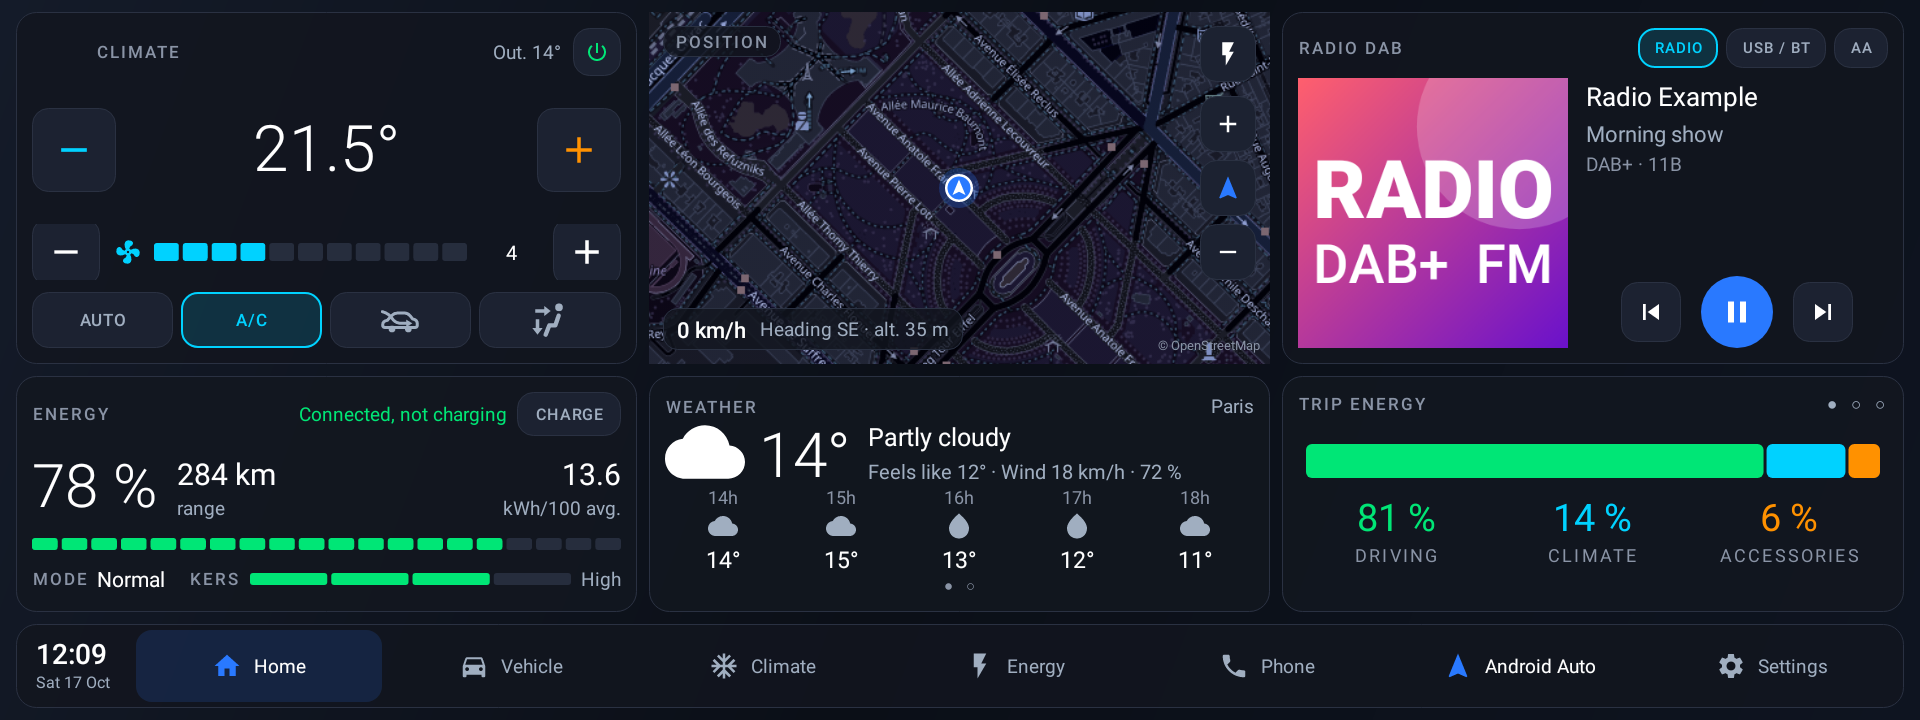
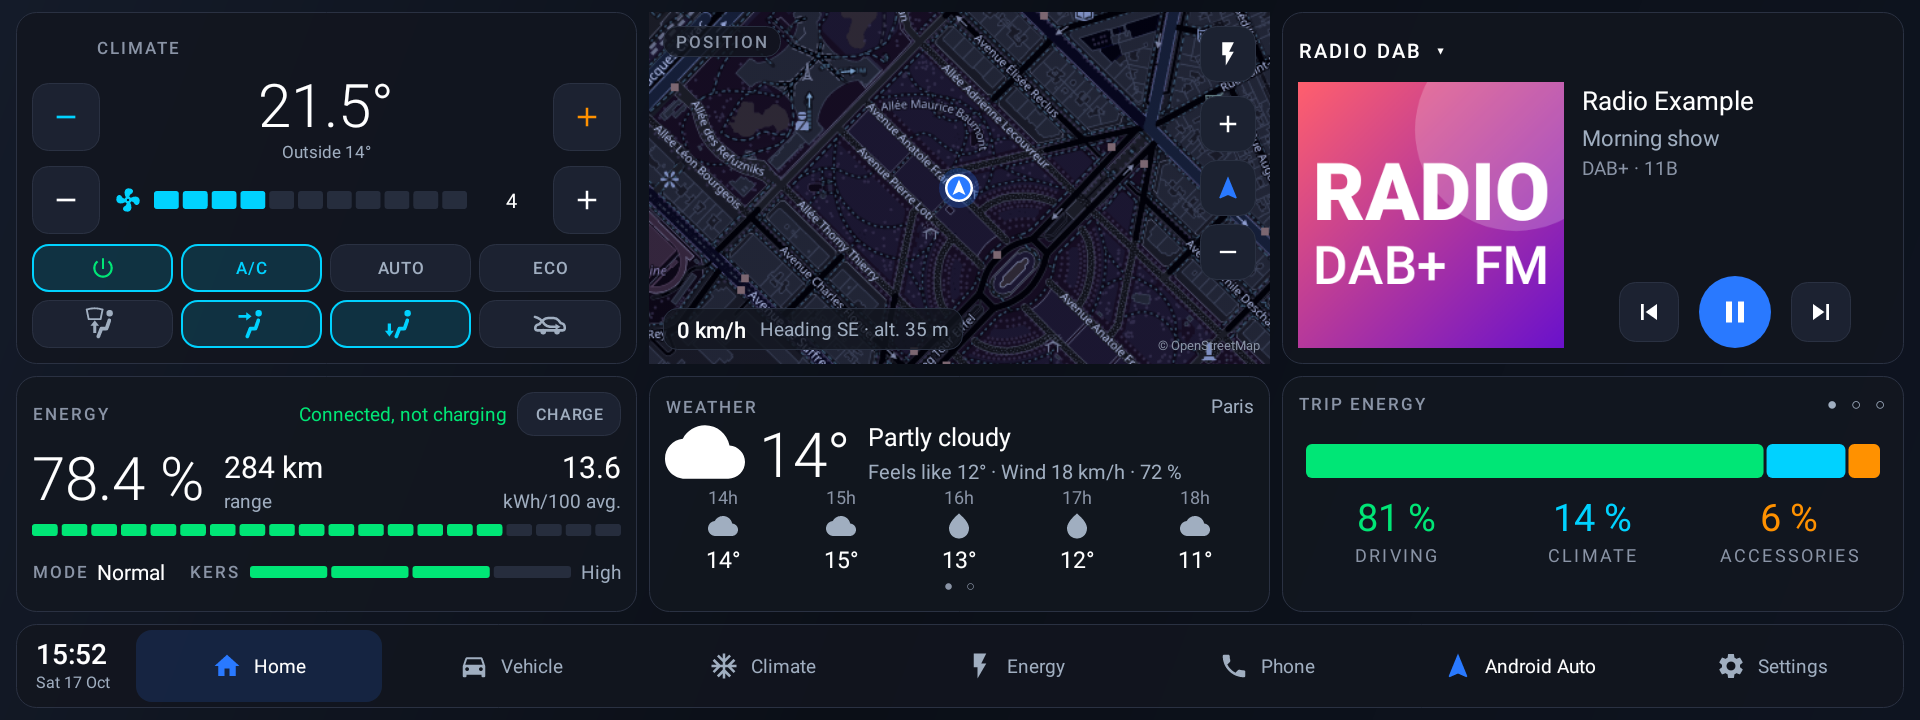
1.0.4-beta: bigger set temperature and outside temperature on the climate cards

diff --git a/app/src/main/java/app/mg4dash/ui/SimpleHome.kt b/app/src/main/java/app/mg4dash/ui/SimpleHome.kt
@@ -114,15 +114,15 @@ class SimpleHome(private val a: AppCompatActivity) {
         // Titre seul ; coin haut-gauche libre pour le bouton des antibrouillards (sauf barre verticale)
         val head = kit.row()
         head.addView(title(a.getString(R.string.title_climate)), kit.lp(0, -2, 1f, l = if (Dock.vertical(a)) 0 else Kit.FOG_SAFE_DP - 20))
-        climateCard.addView(head, kit.lp(-1, kit.dp(44)))
+        climateCard.addView(head, kit.lp(-1, kit.dp(34)))
         if (hideTitles) head.visibility = if (Dock.vertical(a)) View.GONE else View.INVISIBLE
 
         // Température, avec la température extérieure en petit dessous
         val tRow = kit.row().apply { gravity = Gravity.CENTER }
         tRow.addView(holdButton(R.drawable.ic_minus, 84, R.color.accent_cold) { CarBridge.stepTemp(-1) })
         val tBox = kit.column().apply { gravity = Gravity.CENTER }
-        temp = big("—", 84f, light = true).apply { gravity = Gravity.CENTER; includeFontPadding = false }
-        outside = kit.text("", 18f, R.color.text_sub).apply { gravity = Gravity.CENTER }
+        temp = big("—", 90f, light = true).apply { gravity = Gravity.CENTER; includeFontPadding = false }
+        outside = kit.text("", 22f, R.color.text_sub).apply { gravity = Gravity.CENTER; includeFontPadding = false }
         tBox.addView(temp); tBox.addView(outside)
         tRow.addView(tBox, kit.lp(0, -2, 1f))
         tRow.addView(holdButton(R.drawable.ic_plus, 84, R.color.accent_heat) { CarBridge.stepTemp(1) })
@@ -154,7 +154,7 @@ class SimpleHome(private val a: AppCompatActivity) {
         chipAc = kit.toggleTile(a.getString(R.string.chip_ac)) { CarBridge.toggleAc() }
         chipAuto = kit.toggleTile(a.getString(R.string.chip_auto)) { CarBridge.toggleAuto() }
         chipEco = kit.toggleTile("ECO") { CarBridge.toggleEco() }
-        listOf<View>(power, chipAc, chipAuto, chipEco).forEachIndexed { i, v -> r1.addView(v, kit.lp(0, kit.dp(52), 1f, l = if (i > 0) 8 else 0)) }
+        listOf<View>(power, chipAc, chipAuto, chipEco).forEachIndexed { i, v -> r1.addView(v, kit.lp(0, kit.dp(48), 1f, l = if (i > 0) 8 else 0)) }
         climateCard.addView(r1, kit.lp(-1, -2, t = 10))
         val r2 = kit.row()
         chipScreen = iconChip(R.drawable.ic_flow_screen) { toggleFlow(2) }
@@ -165,7 +165,7 @@ class SimpleHome(private val a: AppCompatActivity) {
             text = "A"; setTextColor(kit.color(R.color.accent_action)); setTextSize(TypedValue.COMPLEX_UNIT_SP, 13f); visibility = View.GONE
         }
         chipRecirc.addView(recircAuto, android.widget.FrameLayout.LayoutParams(-2, -2, Gravity.TOP or Gravity.END).apply { rightMargin = kit.dp(8) })
-        listOf<View>(chipScreen, chipFace, chipFeet, chipRecirc).forEachIndexed { i, v -> r2.addView(v, kit.lp(0, kit.dp(52), 1f, l = if (i > 0) 8 else 0)) }
+        listOf<View>(chipScreen, chipFace, chipFeet, chipRecirc).forEachIndexed { i, v -> r2.addView(v, kit.lp(0, kit.dp(48), 1f, l = if (i > 0) 8 else 0)) }
         climateCard.addView(r2, kit.lp(-1, -2, t = 8))
 
         temp.setOnClickListener { a.startActivity(Intent(a, ClimateActivity::class.java)) }
